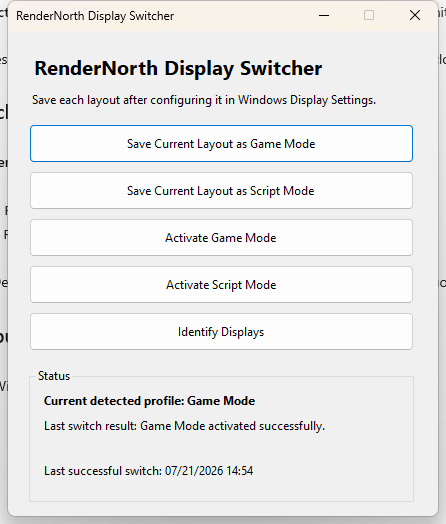
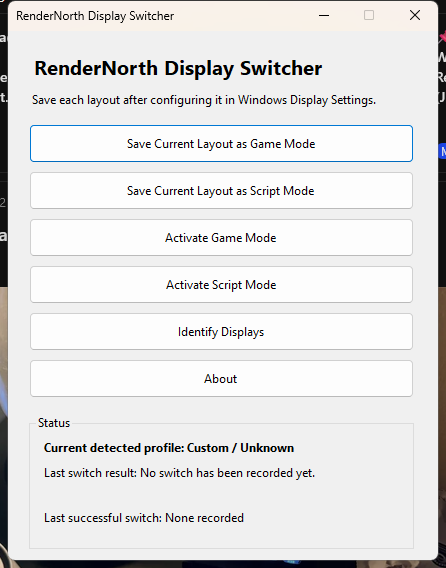
Add v0.2.0 About dialog

diff --git a/UI/AboutForm.cs b/UI/AboutForm.cs
@@ -1,0 +1,57 @@
+using System.Diagnostics;
+
+namespace RenderNorth.DisplaySwitcher.UI;
+
+internal sealed class AboutForm : Form
+{
+    private const string GitHubUrl = "https://github.com/RenderNorth/rendernorth-display-switcher";
+    private const string WebsiteUrl = "https://www.rendernorth.com/";
+
+    public AboutForm()
+    {
+        Text = "About RenderNorth Display Switcher";
+        ClientSize = new Size(370, 245);
+        FormBorderStyle = FormBorderStyle.FixedDialog;
+        StartPosition = FormStartPosition.CenterParent;
+        MaximizeBox = false;
+        MinimizeBox = false;
+        ShowInTaskbar = false;
+
+        var title = new Label
+        {
+            Text = "RenderNorth Display Switcher",
+            Font = new Font(Font.FontFamily, 14, FontStyle.Bold),
+            AutoSize = true,
+            Location = new Point(30, 25)
+        };
+        var version = new Label { Text = "Version 0.2.0", AutoSize = true, Location = new Point(31, 65) };
+        var creator = new Label { Text = "Created by RenderNorth", AutoSize = true, Location = new Point(31, 92) };
+        var github = Link("GitHub", GitHubUrl, new Point(31, 128));
+        var website = Link("Website", WebsiteUrl, new Point(105, 128));
+        var updates = new Button
+        {
+            Text = "Check for Updates (future)",
+            Enabled = false,
+            Location = new Point(31, 164),
+            Size = new Size(205, 32)
+        };
+        var close = new Button
+        {
+            Text = "Close",
+            DialogResult = DialogResult.OK,
+            Location = new Point(260, 201),
+            Size = new Size(80, 28)
+        };
+
+        Controls.AddRange([title, version, creator, github, website, updates, close]);
+        AcceptButton = close;
+        CancelButton = close;
+    }
+
+    private static LinkLabel Link(string text, string url, Point location)
+    {
+        var link = new LinkLabel { Text = text, AutoSize = true, Location = location };
+        link.LinkClicked += (_, _) => Process.Start(new ProcessStartInfo(url) { UseShellExecute = true });
+        return link;
+    }
+}

diff --git a/UI/MainForm.cs b/UI/MainForm.cs
@@ -15,8 +15,8 @@ internal sealed class MainForm : Form
         _service = service;
         _log = log;
         Text = "RenderNorth Display Switcher";
-        ClientSize = new Size(430, 485);
-        MinimumSize = new Size(446, 524);
+        ClientSize = new Size(430, 529);
+        MinimumSize = new Size(446, 568);
         StartPosition = FormStartPosition.CenterScreen;
         FormBorderStyle = FormBorderStyle.FixedDialog;
         MaximizeBox = false;
@@ -30,6 +30,7 @@ internal sealed class MainForm : Form
         panel.Controls.Add(Button("Activate Game Mode", (_, _) => RunOperation(() => _service.Activate(ProfileKind.Game))));
         panel.Controls.Add(Button("Activate Script Mode", (_, _) => RunOperation(() => _service.Activate(ProfileKind.Script))));
         panel.Controls.Add(Button("Identify Displays", Identify));
+        panel.Controls.Add(Button("About", (_, _) => new AboutForm().ShowDialog(this)));
         panel.Controls.Add(CreateStatusPanel());
         Controls.Add(panel);
         Shown += (_, _) => RefreshStatus();

diff --git a/README.md b/README.md
@@ -27,6 +27,7 @@ RenderNorth Display Switcher lets Windows create each working layout once, captu
 - Runs command-line and launcher activation silently with meaningful exit codes.
 - Logs actions and errors locally.
 - Detects whether the current topology matches Game Mode, Script Mode, or neither.
+- Includes an About dialog with RenderNorth project links and version information.
 - Requires no installer and collects no telemetry.
 
 ## Screenshots
@@ -34,6 +35,10 @@ RenderNorth Display Switcher lets Windows create each working layout once, captu
 ### Application
 
 ![Application window showing Game Mode status](docs/images/application-main-window.png)
+
+### About RenderNorth Display Switcher
+
+![About dialog showing version and RenderNorth links](docs/images/about-dialog.png)
 
 ### Example Windows layouts
 

diff --git a/CHANGELOG.md b/CHANGELOG.md
@@ -14,6 +14,7 @@ The project follows [Semantic Versioning](https://semver.org/).
 - Persistent last-switch result and successful-switch timestamp.
 - Rollback protection, post-apply topology verification, and local logging.
 - Public-release documentation and packaging.
+- About dialog with RenderNorth, version, GitHub, website, and future-update information.
 
 ### Verified
 